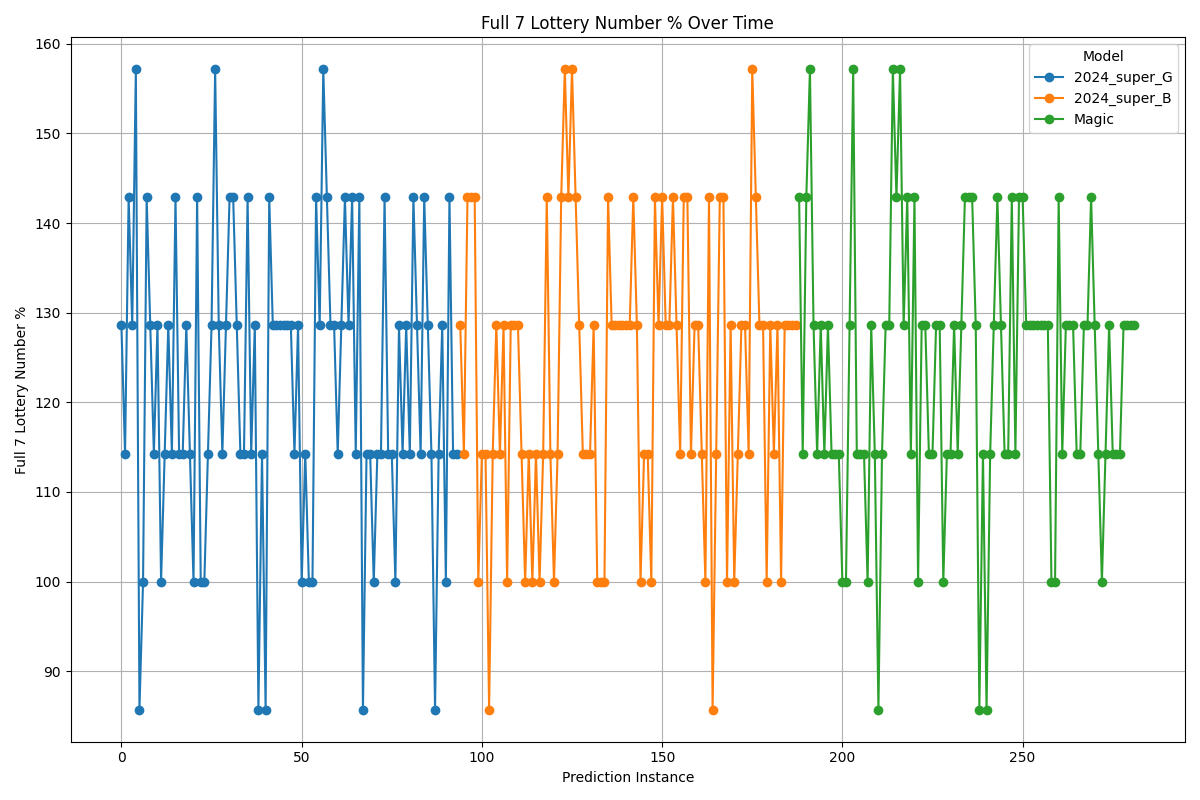
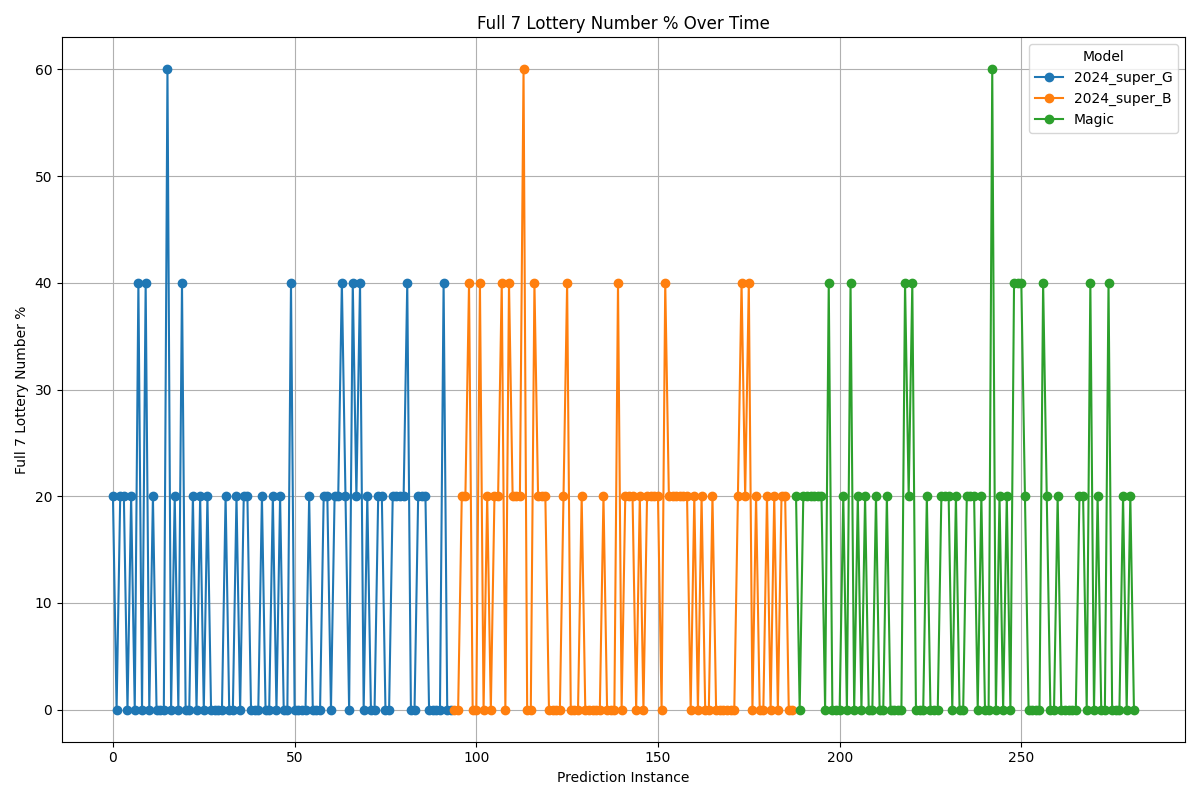
Add files via upload

diff --git a/reports_model_analysis.py b/reports_model_analysis.py
@@ -1,0 +1,183 @@
+# PRIVATE AND CONFIDENTIAL [Intellectual Property Of Brett Palmer mince@foldingcircles.co.uk]
+# [No Copying Or Reading Or Use Permitted !]
+"""
+Copyright (c) 2023, Brett Palmer (Mince@foldingcircles.co.uk)
+
+All rights reserved. No permission is granted for anyone, except the software owner, Brett Palmer, to use, copy, modify,
+distribute, sublicense, or otherwise deal with the software in any manner.
+
+Any unauthorized use, copying, or distribution of this software without the explicit written consent of the software
+owner is strictly prohibited.
+
+For permission requests, please contact the software owner, Brett Palmer, at Mince@foldingcircles.co.uk.
+"""
+
+# FoldingCircles Making The Unknown Known
+import pandas as pd
+import glob
+import matplotlib.pyplot as plt
+
+__version__ = "0.0.004"
+print(f'reports_model_analysis.py {__version__}')
+
+# Step 1: Load CSV Files
+file_paths = glob.glob('reports/report_history_*.csv')
+
+# List to hold individual DataFrames
+data_frames = []
+
+# Load each CSV file into a DataFrame and append to the list
+for file_path in file_paths:
+    df = pd.read_csv(file_path)
+    data_frames.append(df)
+
+# Step 2: Combine DataFrames
+combined_df = pd.concat(data_frames, ignore_index=True)
+
+# Step 3: Perform Data Analysis or Processing
+# Example: Displaying the first few rows of the combined DataFrame
+print(combined_df.head())
+
+# If you want to save the combined DataFrame to a new CSV file
+combined_df.to_csv('reports/combined_report_history.csv', index=False)
+
+
+def count_predictions_and_matches(df):
+    """
+    Counts the number of predictions and matches for each model.
+
+    Args:
+    df (pd.DataFrame): Combined DataFrame containing all predictions and results.
+
+    Returns:
+    pd.DataFrame: DataFrame with the counts of predictions and matches for each model.
+    """
+
+    def count_matches(row):
+        predicted = set(row['indices'])
+        actual = set(row['label'])
+        return len(predicted & actual)
+
+    df['matches'] = df.apply(count_matches, axis=1)
+
+    model_stats = df.groupby('el_model').agg(
+        predictions=('indices', 'count'),
+        matches=('matches', 'sum')
+    ).reset_index()
+
+    return model_stats
+
+
+def calculate_statistics(df):
+    """
+    Calculates accuracy and standard deviation for each model.
+
+    Args:
+    df (pd.DataFrame): DataFrame with counts of predictions and matches for each model.
+
+    Returns:
+    pd.DataFrame: DataFrame with accuracy and standard deviation for each model.
+    """
+    df['accuracy'] = df['matches'] / df['predictions']
+    df['std_deviation'] = df['accuracy'].std()
+
+    return df
+
+
+def plot_performance(df):
+    """
+    Plots the performance of each model.
+
+    Args:
+    df (pd.DataFrame): DataFrame with accuracy and standard deviation for each model.
+    """
+    plt.figure(figsize=(10, 6))
+
+    plt.bar(df['el_model'], df['accuracy'], yerr=df['std_deviation'], capsize=5)
+    plt.xlabel('Model Name')
+    plt.ylabel('Accuracy')
+    plt.title('Model Performance: Accuracy and Standard Deviation')
+    plt.xticks(rotation=45)
+    plt.tight_layout()
+
+    plt.savefig('reports/model_performance.png')
+    plt.show()
+
+
+def plot_full_lottery_percent(df):
+    """
+    Plots the full 7 lottery number percentage for each model over time.
+
+    Args:
+    df (pd.DataFrame): Combined DataFrame with all predictions and results.
+    """
+
+    def calculate_full_lottery_percent(row):
+        predicted = set(row['indices'])
+        actual = set(row['label'])
+        intersection_count = len(predicted & actual)
+        return (intersection_count / min(len(predicted), 7)) * 100
+
+    # Ensure the indices and label columns are treated as lists
+    df['indices'] = df['indices'].apply(lambda x: eval(x) if isinstance(x, str) else x)
+    df['label'] = df['label'].apply(lambda x: eval(x) if isinstance(x, str) else x)
+
+    df['full_lottery_percent'] = df.apply(calculate_full_lottery_percent, axis=1)
+
+    # Clip percentages to a maximum of 100
+    df['full_lottery_percent'] = df['full_lottery_percent'].clip(upper=100)
+
+    models = df['el_model'].unique()
+
+    plt.figure(figsize=(12, 8))
+
+    for model in models:
+        model_df = df[df['el_model'] == model]
+        plt.plot(model_df.index, model_df['full_lottery_percent'], marker='o', label=model)
+
+    plt.xlabel('Prediction Instance')
+    plt.ylabel('Full 7 Lottery Number %')
+    plt.title('Full 7 Lottery Number % Over Time')
+    plt.legend(title='Model')
+    plt.grid(True)
+    plt.tight_layout()
+
+    plt.savefig('reports/full_lottery_percent.png')
+    plt.show()
+
+
+def plot_model_prediction_percent(df):
+    """
+    Plots each model's prediction percentage for each prediction over time.
+
+    Args:
+    df (pd.DataFrame): Combined DataFrame with all predictions and results.
+    """
+    df['model_prediction_percent'] = df.apply(
+        lambda row: (len(set(row['indices']) & set(row['label'])) / len(row['indices'])) * 100, axis=1)
+
+    models = df['el_model'].unique()
+
+    plt.figure(figsize=(12, 8))
+
+    for model in models:
+        model_df = df[df['el_model'] == model]
+        plt.plot(model_df.index, model_df['model_prediction_percent'], marker='o', label=model)
+
+    plt.xlabel('Prediction Instance')
+    plt.ylabel('Model Prediction %')
+    plt.title('Model Prediction % Over Time')
+    plt.legend(title='Model')
+    plt.grid(True)
+    plt.tight_layout()
+
+    plt.savefig('reports/model_prediction_percent.png')
+    plt.show()
+
+
+# df has the necessary columns: 'el_model', 'indices', 'label'
+model_stats_df = count_predictions_and_matches(combined_df)
+model_performance_df = calculate_statistics(model_stats_df)
+plot_performance(model_performance_df)
+plot_full_lottery_percent(combined_df)
+plot_model_prediction_percent(combined_df)

diff --git a/report_history_gen.py b/report_history_gen.py
@@ -1,0 +1,58 @@
+# PRIVATE AND CONFIDENTIAL [Intellectual Property Of Brett Palmer mince@foldingcircles.co.uk]
+# [No Copying Or Reading Or Use Permitted !]
+"""
+Copyright (c) 2023, Brett Palmer (Mince@foldingcircles.co.uk)
+
+All rights reserved. No permission is granted for anyone, except the software owner, Brett Palmer, to use, copy, modify,
+distribute, sublicense, or otherwise deal with the software in any manner.
+
+Any unauthorized use, copying, or distribution of this software without the explicit written consent of the software
+owner is strictly prohibited.
+
+For permission requests, please contact the software owner, Brett Palmer, at Mince@foldingcircles.co.uk.
+"""
+
+# FoldingCircles Making The Unknown Known
+
+
+import csv
+import datetime
+
+__version__ = "0.0.001"
+print(f'report_history_gen.py {__version__}')
+
+# Get current date and time
+now = datetime.datetime.now()
+
+# Format the date and time
+date_str = now.strftime("%d_%b_%Y_%H%M%S")
+filename = f"reports/report_history_{date_str}.csv"
+
+# Create the CSV file with headers
+with open(filename, mode='w', newline='') as file:
+    writer = csv.writer(file)
+    headers = ["creation_date", "el_model", "yp", "indices", "label", "matching", "result_date"]
+    writer.writerow(headers)
+
+def extract_result_date(input_string):
+    # Extract the result date from the input string
+    parts = input_string.split('/')
+    if len(parts) > 1:
+        return parts[1]
+    return ""
+
+# Function to update the CSV file
+def update_csv(creation_date, el_model, yp, indices, label, matching, for_from_r_string):
+    result_date = extract_result_date(for_from_r_string)
+    with open(filename, mode='a', newline='') as file:
+        writer = csv.writer(file)
+        writer.writerow([creation_date, el_model, yp, indices,label, matching, result_date])
+
+# Example Usage
+if __name__ == "__main__":
+    update_csv("2024-07-14",
+               "ModelX", "YP123",
+               "1,2,3,4,5,6,7",
+               "Label1",
+               "Matching1",
+               "readings/Sat-13-07-2024/2024-07-12T17-59-53")
